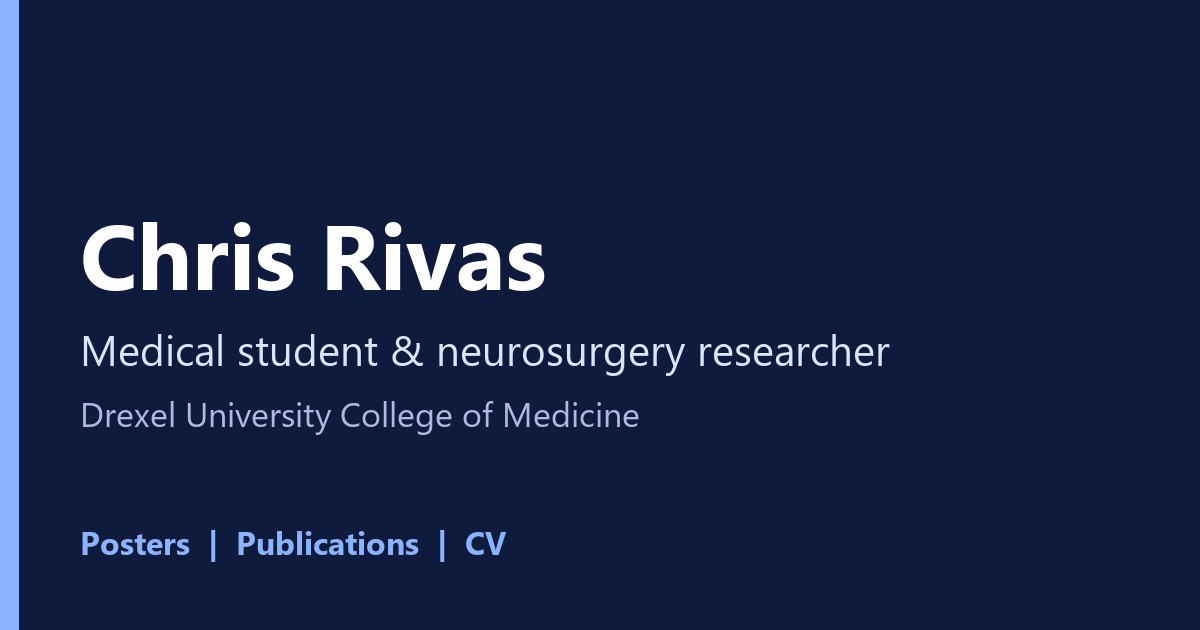
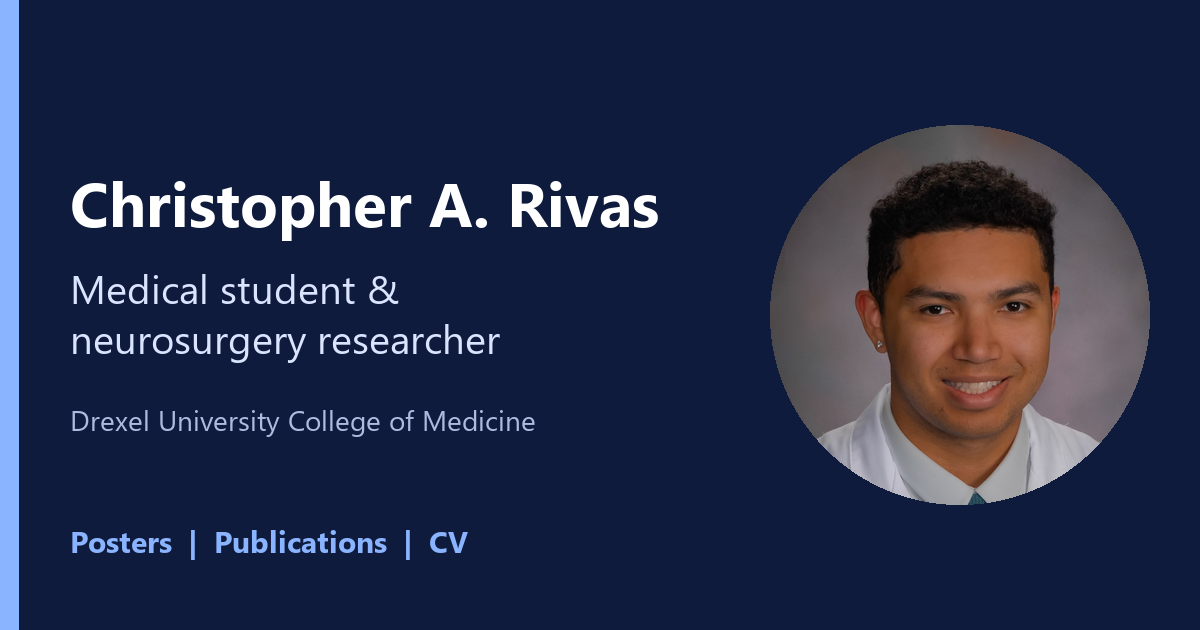
Add real name, headshot, email, profile and social links, J Neurophysiol 2025 paper

diff --git a/index.html b/index.html
@@ -3,8 +3,8 @@
 <head>
   <meta charset="utf-8">
   <meta name="viewport" content="width=device-width, initial-scale=1">
-  <title>Chris Rivas | Medical Student &amp; Neurosurgery Researcher</title>
-  <meta name="description" content="Chris Rivas, second-year medical student at Drexel University College of Medicine. Neurosurgery research with the Global Neurosciences Institute. Posters, publications and CV.">
+  <title>Christopher A. Rivas | Medical Student &amp; Neurosurgery Researcher</title>
+  <meta name="description" content="Christopher A. Rivas, second-year medical student at Drexel University College of Medicine. Neurosurgery research with the Global Neurosciences Institute. Posters, publications and CV.">
   <meta name="color-scheme" content="light dark">
   <meta name="theme-color" content="#ffffff" media="(prefers-color-scheme: light)">
   <meta name="theme-color" content="#0f1420" media="(prefers-color-scheme: dark)">
@@ -13,13 +13,13 @@
 
   <!-- Open Graph / link previews. og:image should be a PNG or JPG, ideally 1200x630. -->
   <meta property="og:type" content="website">
-  <meta property="og:title" content="Chris Rivas | Medical Student &amp; Neurosurgery Researcher">
+  <meta property="og:title" content="Christopher A. Rivas | Medical Student &amp; Neurosurgery Researcher">
   <meta property="og:description" content="Posters, publications and CV. Drexel University College of Medicine; Global Neurosciences Institute.">
   <meta property="og:url" content="https://jsjkymcs2s-maker.github.io/">
   <meta property="og:image" content="https://jsjkymcs2s-maker.github.io/assets/og-image.png">
   <meta property="og:image:width" content="1200">
   <meta property="og:image:height" content="630">
-  <meta property="og:image:alt" content="Chris Rivas, medical student and neurosurgery researcher">
+  <meta property="og:image:alt" content="Christopher A. Rivas, medical student and neurosurgery researcher">
   <meta name="twitter:card" content="summary_large_image">
 
   <link rel="stylesheet" href="css/style.css">
@@ -39,13 +39,11 @@
   <a class="skip-link" href="#main">Skip to content</a>
 
   <header class="wrap hero">
-    <!-- PLACEHOLDER: replace with your photo. Save it as assets/photo.jpg (square, about 400x400) and change the src below. -->
-    <img src="assets/photo-placeholder.svg" width="140" height="140" alt="Portrait of Chris Rivas (placeholder image)" fetchpriority="high">
-    <h1>Chris Rivas</h1>
+    <img src="assets/photo.jpg" width="140" height="140" alt="Portrait of Christopher A. Rivas in a white coat and teal tie, smiling" fetchpriority="high">
+    <h1>Christopher A. Rivas</h1>
     <p class="tagline">Second-year medical student at Drexel University College of Medicine, conducting neurosurgery research with the Global Neurosciences Institute.</p>
     <p class="contact">
-      <!-- PLACEHOLDER: replace PLACEHOLDER_EMAIL in both places with your email address. -->
-      <a href="mailto:PLACEHOLDER_EMAIL"><span class="ph">PLACEHOLDER_EMAIL</span></a>
+      <a href="mailto:car452@drexel.edu">car452@drexel.edu</a>
     </p>
 
     <!-- Filled in by the script at the bottom when the URL looks like /#poster-<slug> -->
@@ -69,15 +67,15 @@
       <h2 id="pubs-h">Selected publications</h2>
       <ol class="pubs" reversed>
         <li id="pub-rivas-2025">
-          <div class="pub-title"><span class="ph">PLACEHOLDER: full title of your J Neurophysiol paper</span></div>
+          <div class="pub-title">Motor unit activity during maximal-intent dynamic muscle actions varies by intensity and sex in healthy adults</div>
           <div class="pub-meta">
-            <strong>Rivas C</strong>, <span class="ph">PLACEHOLDER: co-authors</span>.
-            <em>J Neurophysiol.</em> 2025;<span class="ph">PLACEHOLDER: volume(issue):pages</span>.
-            <span class="ph">doi:PLACEHOLDER</span>
+            <strong>Rivas CA</strong>, Voskuil CC, Hahs-Vaughn DL, Stock MS, Carr JC.
+            <em>J Neurophysiol.</em> 2025;134(3):940-951.
+            doi:10.1152/jn.00184.2025
           </div>
           <p class="pub-links">
-            <a href="https://doi.org/PLACEHOLDER">Publisher page</a> &middot;
-            <a href="https://pubmed.ncbi.nlm.nih.gov/PLACEHOLDER/">PubMed</a>
+            <a href="https://doi.org/10.1152/jn.00184.2025">Publisher page</a> &middot;
+            <a href="https://pubmed.ncbi.nlm.nih.gov/40839392/">PubMed</a>
           </p>
         </li>
         <!-- To add another paper, copy the <li> above and give it a new id (for example pub-rivas-2026). -->
@@ -86,36 +84,53 @@
 
     <section id="links" aria-labelledby="links-h">
       <h2 id="links-h">Links</h2>
-      <!-- PLACEHOLDER: replace each PLACEHOLDER_* part of the URL with your own profile. Delete any <li> you do not want. -->
       <ul class="btn-grid">
         <li>
-          <a class="btn" href="https://orcid.org/PLACEHOLDER_ORCID_ID" rel="me noopener">
+          <a class="btn" href="https://orcid.org/0009-0006-3144-8555" rel="me noopener">
             <svg viewBox="0 0 24 24" aria-hidden="true" focusable="false"><path fill-rule="evenodd" d="M12 1.5a10.5 10.5 0 1 0 0 21 10.5 10.5 0 0 0 0-21zM7.9 6.1a.9.9 0 1 1 0 1.8.9.9 0 0 1 0-1.8zM7.2 9.2h1.4v7.6H7.2V9.2zm3.3 0h2.9c2.5 0 3.7 1.6 3.7 3.8s-1.4 3.8-3.7 3.8h-2.9V9.2zm1.4 1.2v5.2h1.4c1.7 0 2.4-1.1 2.4-2.6 0-1.4-.7-2.6-2.4-2.6h-1.4z"/></svg>
             ORCID
           </a>
         </li>
         <li>
-          <a class="btn" href="https://scholar.google.com/citations?user=PLACEHOLDER_SCHOLAR_ID" rel="me noopener">
+          <a class="btn" href="https://scholar.google.com/citations?user=MPgsb2YAAAAJ" rel="me noopener">
             <svg viewBox="0 0 24 24" aria-hidden="true" focusable="false"><path d="M12 3 1 9l11 6 9-4.9V17h2V9L12 3zM5 13.2V17c0 1.7 3.1 3.5 7 3.5s7-1.8 7-3.5v-3.8l-7 3.8-7-3.8z"/></svg>
             Google Scholar
           </a>
         </li>
         <li>
-          <a class="btn" href="https://www.ncbi.nlm.nih.gov/myncbi/PLACEHOLDER_MYNCBI_ID/bibliography/public/" rel="me noopener">
+          <a class="btn" href="https://www.ncbi.nlm.nih.gov/myncbi/christopher.rivas.2/bibliography/public/" rel="me noopener">
             <svg viewBox="0 0 24 24" aria-hidden="true" focusable="false"><path d="M6 2h9l5 5v15H6V2zm8 1.8V8h4.2L14 3.8zM8.5 11v1.6h8V11h-8zm0 3.2v1.6h8v-1.6h-8zm0 3.2V19h5.5v-1.6H8.5z"/></svg>
             PubMed / My NCBI
           </a>
         </li>
         <li>
-          <a class="btn" href="https://www.researchgate.net/profile/PLACEHOLDER_RESEARCHGATE_NAME" rel="me noopener">
+          <a class="btn" href="https://www.researchgate.net/profile/Christopher-Rivas-2" rel="me noopener">
             <svg viewBox="0 0 24 24" aria-hidden="true" focusable="false"><path fill-rule="evenodd" d="M4 2h16a2 2 0 0 1 2 2v16a2 2 0 0 1-2 2H4a2 2 0 0 1-2-2V4a2 2 0 0 1 2-2zm3 5v10h1.7v-3.9h1.4l1.9 3.9h1.9l-2.2-4.1c1-.4 1.6-1.3 1.6-2.5 0-1.8-1.3-3.4-3.2-3.4H7zm1.7 1.5h1.5c.9 0 1.5.6 1.5 1.5s-.6 1.5-1.5 1.5H8.7V8.5zM15.3 11c-1.5 0-2.6 1.1-2.6 2.9s1.1 3.1 2.8 3.1c.9 0 1.6-.3 2.1-.9l-.9-1c-.3.3-.7.5-1.1.5-.7 0-1.2-.4-1.3-1.2h3.6v-.5c0-1.7-.9-2.9-2.6-2.9zm-.1 1.3c.5 0 .8.4.9.9h-1.8c.1-.6.4-.9.9-.9z"/></svg>
             ResearchGate
           </a>
         </li>
         <li>
-          <a class="btn" href="https://www.linkedin.com/in/PLACEHOLDER_LINKEDIN_HANDLE/" rel="me noopener">
+          <a class="btn" href="https://www.linkedin.com/in/christopher-a-r-31bab919a/" rel="me noopener">
             <svg viewBox="0 0 24 24" aria-hidden="true" focusable="false"><path d="M4 2h16a2 2 0 0 1 2 2v16a2 2 0 0 1-2 2H4a2 2 0 0 1-2-2V4a2 2 0 0 1 2-2zm1.6 7.2V19h2.8V9.2H5.6zM7 5a1.6 1.6 0 1 0 0 3.2A1.6 1.6 0 0 0 7 5zm3.5 4.2V19h2.8v-5.2c0-1.4.6-2.2 1.7-2.2s1.5.8 1.5 2.1V19h2.8v-5.9c0-2.4-1.3-3.9-3.4-3.9-1.2 0-2.1.6-2.6 1.4V9.2h-2.8z"/></svg>
             LinkedIn
+          </a>
+        </li>
+      </ul>
+    </section>
+
+    <section id="social" aria-labelledby="social-h">
+      <h2 id="social-h">Social media</h2>
+      <ul class="btn-grid">
+        <li>
+          <a class="btn" href="https://www.instagram.com/christopher.rivas.med/" rel="me noopener">
+            <svg viewBox="0 0 24 24" aria-hidden="true" focusable="false"><path fill-rule="evenodd" d="M7.5 3h9A4.5 4.5 0 0 1 21 7.5v9a4.5 4.5 0 0 1-4.5 4.5h-9A4.5 4.5 0 0 1 3 16.5v-9A4.5 4.5 0 0 1 7.5 3zm0 1.8a2.7 2.7 0 0 0-2.7 2.7v9a2.7 2.7 0 0 0 2.7 2.7h9a2.7 2.7 0 0 0 2.7-2.7v-9a2.7 2.7 0 0 0-2.7-2.7h-9zM12 7.5a4.5 4.5 0 1 1 0 9 4.5 4.5 0 0 1 0-9zm0 1.8a2.7 2.7 0 1 0 0 5.4 2.7 2.7 0 0 0 0-5.4zm4.9-3.1a1.05 1.05 0 1 1 0 2.1 1.05 1.05 0 0 1 0-2.1z"/></svg>
+            <span>Instagram <small>@christopher.rivas.med</small></span>
+          </a>
+        </li>
+        <li>
+          <a class="btn" href="https://x.com/chris_a_rivas" rel="me noopener">
+            <svg viewBox="0 0 24 24" aria-hidden="true" focusable="false"><path fill-rule="evenodd" d="M3.5 3h4.6l4.3 6 5-6h2.4l-6.3 7.5L21 21h-4.6l-4.5-6.3L6.5 21H4l6.6-7.9L3.5 3zm3 1.6 10.4 14.8h1.2L7.7 4.6H6.5z"/></svg>
+            <span>X <small>@chris_a_rivas</small></span>
           </a>
         </li>
       </ul>
@@ -152,7 +167,7 @@
 
   <footer>
     <div class="wrap">
-      <p>Chris Rivas &middot; Drexel University College of Medicine</p>
+      <p>Christopher A. Rivas &middot; Drexel University College of Medicine</p>
       <p>Last updated: <time datetime="2026-10-17">October 17, 2026</time></p>
     </div>
   </footer>

diff --git a/css/style.css b/css/style.css
@@ -93,6 +93,7 @@ section p { margin: 0 0 0.75rem; }
 }
 .btn:hover { border-color: var(--accent); }
 .btn svg { width: 24px; height: 24px; flex: none; fill: currentColor; color: var(--accent); }
+.btn small { display: block; font-weight: 400; font-size: 0.85rem; color: var(--muted); overflow-wrap: anywhere; }
 .btn-primary { background: var(--accent); border-color: var(--accent); color: var(--accent-text); justify-content: center; }
 .btn-primary svg { color: var(--accent-text); }
 .btn-primary:hover { filter: brightness(1.08); }

diff --git a/scripts/check_site.py b/scripts/check_site.py
@@ -16,6 +16,7 @@ ROOT = Path(__file__).resolve().parent.parent
 TEXT_EXT = {".html", ".css", ".js", ".md", ".py", ".svg", ".txt", ".json", ".xml"}
 SKIP_DIRS = {".git", "__pycache__"}
 problems = []
+ALLOWED_EMAILS = {"car452@drexel.edu"}   # addresses you deliberately publish on the page
 
 
 def text_files():
@@ -58,7 +59,7 @@ for p in text_files():
         continue
     for n, line in enumerate(p.read_text(encoding="utf-8", errors="replace").splitlines(), 1):
         for label, rx in (("phone number", phone), ("email address", email), ("street address", street)):
-            if rx.search(line):
+            if rx.search(line) and not (rx is email and rx.search(line).group(0) in ALLOWED_EMAILS):
                 problems.append(f"{p.relative_to(ROOT)}:{n}: possible {label}: {rx.search(line).group(0)}")
 
 print("Checks")

diff --git a/README.md b/README.md
@@ -1,4 +1,4 @@
-# Chris Rivas: academic landing page
+# Christopher A. Rivas: academic landing page
 
 A single-page, mobile-first site for research posters. Plain HTML and CSS, no framework, no build step.
 Live at **https://jsjkymcs2s-maker.github.io/** (GitHub Pages, deployed from the `main` branch).
@@ -10,7 +10,7 @@ cv/Rivas_CV.pdf       your CV
 posters/<slug>.pdf    one PDF per poster
 p/<slug>/index.html   permanent redirect that a poster's QR code points to
 qr/<slug>.svg|.png    QR codes (not linked from the page)
-assets/               photo, favicon, link-preview image
+assets/               headshot (photo.jpg), favicon, link-preview image
 scripts/              new_poster.py, make_qr.py, check_site.py, update_date.py
 ```
 
@@ -87,12 +87,14 @@ The link on the page and any printed references keep working. Keep it under a fe
 
 ## Edit links and text
 
-* **Profile buttons:** in the `Links` section of `index.html`, replace each `PLACEHOLDER_*` in the
-  URL (ORCID ID, Google Scholar ID, My NCBI ID, ResearchGate name, LinkedIn handle). Delete a whole
-  `<li>...</li>` to remove a button.
-* **Email:** replace `PLACEHOLDER_EMAIL` in both places in the header.
-* **Photo:** save a square image as `assets/photo.jpg` (about 400 x 400) and change the `<img src>` in the header.
-  Keep the `alt` text meaningful.
+* **Profile and social buttons:** in the `Links` and `Social media` sections of `index.html`, edit the
+  `href` of the button. Delete a whole `<li>...</li>` to remove one, or copy one to add another.
+  Use clean profile URLs without tracking parameters such as `?ev=...` or `?isSelfProfile=true`.
+* **Email:** edit the address in the header (both the `mailto:` and the visible text). If you
+  change it, add it to `ALLOWED_EMAILS` in `scripts/check_site.py` so the privacy scan accepts it.
+* **Photo:** `assets/photo.jpg` is a 420 x 420 square crop. To change it, save a new square JPEG
+  with the same name (strip location metadata first; re-saving through Pillow or an image
+  editor's "export" does this). Keep the `alt` text meaningful.
 * **Publications:** copy the `<li id="pub-...">` block and edit it. Newest first.
 * **Link-preview image:** replace `assets/og-image.png` (1200 x 630 PNG or JPG). Chat apps cache previews, so a
   changed image can take a while to appear.
